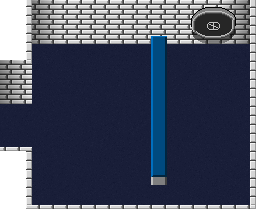
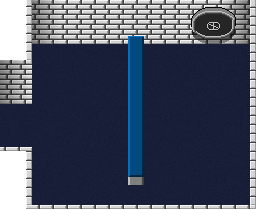
nyt art samt nye hitbox'es

Changed region(s): [[0.5, 0.1722, 0.6562, 0.89]]

diff --git a/Sustainia/src/main/java/com/mycompany/sustainia/Game.java b/Sustainia/src/main/java/com/mycompany/sustainia/Game.java
@@ -31,48 +31,58 @@ public class Game {
             // Front of Town Hall
             {560,451},
             // Front of Non-Sustainable house
-            {208,374},
+            {240,374},
             // Front of Park
-            {208,506},
+            {240,506},
             // Front of Bank
-            {912,374},
+            {896,374},
             // Front of Clothing Factory
-            {912,506},
+            {880,506},
             // Front of police station
-            {336,622},
+            {336,600},
             // Front of Recyclestation
             {560,600},
             // Front of School
-            {784,622}
+            {784,600}
         },
         new HitBox[]{
             // LHitBoxevel Barrier
             new HitBox(0,298,1120,20), new HitBox(0,770,1120,10),
             // TownHall
             new HitBox(448,318,224,110), new HitBox(448,428,96,34), new HitBox(576,428,96,34),
+            // NSH
+            new HitBox(192,374,32,2), new HitBox(192,394,32,2), new HitBox(32,330,160,110),
+            // Park
+            new HitBox(0,528,213,57), new HitBox(0,440,213,66), new HitBox(0,506,192,22),
+            // Bank
+            new HitBox(912,374,16,2), new HitBox(912,394,16,2), new HitBox(928,330,160,110),
+            // Clothing Factory
+            new HitBox(896,526,32,2), new HitBox(896,506,32,2), new HitBox(928,462,160,110),
+            // Police Station
+            new HitBox(320,616,2,22), new HitBox(350,616,2,22), new HitBox(256,638,160,110), new HitBox(417,726,1,22),
             // Recyclestation
             new HitBox(480,614,64,24), new HitBox(576,614,64,24), new HitBox(480,638,160,110),
             // School
-            new HitBox(672,616,2,154), new HitBox(704,638,160,55), new HitBox(704,693,96,55), new HitBox(768,616,2,22), new HitBox(798,616,2,22), new HitBox(879,705,2,42)
+            new HitBox(768,616,2,22), new HitBox(798,616,2,22), new HitBox(704,638,160,55), new HitBox(704,693,96,55)
         },
  
             new HitBox[]{
                 // Town Hall door
                 new HitBox(550,410,20,30),
                 // Non-Sustainable house door
-                new HitBox(170,374,22,22),
+                new HitBox(192,376,32,18),
                 // Park door
-                new HitBox(170,506,22,22),
+                new HitBox(192,506,16,22),
                 // Bank door
-                new HitBox(928,374,22,22),
+                new HitBox(912,376,16,18),
                 // Clothing Factory door
-                new HitBox(928,506,22,22),
+                new HitBox(896,506,22,22),
                 // Police Station door
-                new HitBox(320,638,32,22),
+                new HitBox(322,616,28,22),
                 // Recycle Station door
                 new HitBox(544,616,32,22),
                 // School door
-                new HitBox(770,638,28,22)
+                new HitBox(770,616,28,22)
             }
         , new ArrayList<>());
     }
@@ -95,7 +105,8 @@ public class Game {
         nonsustainableHouse = new Room("NSH", 240, 115,
             new HitBox[]{
                 // Walls
-                new HitBox(0,0,224,44), new HitBox(224,0,32,104), new HitBox(224,148,32,61), new HitBox(-10,44,10,165), new HitBox(0,209,224,10)},
+                new HitBox(0,0,222,45), new HitBox(0,45,2,164), new HitBox(222,146,34,63), new HitBox(222,0,34,105), new HitBox(2,0,220,45)
+            },
             new Door(new HitBox(256,104,10,44), streets)
         , new ArrayList<>());
     }
@@ -104,7 +115,8 @@ public class Game {
         park = new Room("Park", 240, 115,
             new HitBox[]{
                 // Walls
-                new HitBox(0,0,224,44), new HitBox(224,0,32,104), new HitBox(224,148,32,61), new HitBox(-10,44,10,165), new HitBox(0,209,224,10)},
+                new HitBox(0,0,21,209), new HitBox(20,0,215,57)
+            },
             new Door(new HitBox(256,104,10,44), streets)
         , new ArrayList<>());
     }
@@ -113,7 +125,10 @@ public class Game {
         bank = new Room("Bank", 16, 115,
             new HitBox[]{
                 // Walls
-                new HitBox(32,0,224,44), new HitBox(0,0,32,104), new HitBox(0,148,32,61), new HitBox(256,44,10,165), new HitBox(32,209,224,10)},
+                new HitBox(0,0,32,104), new HitBox(32,0,224,44), new HitBox(250,44,6,165), new HitBox(0,147,32,62), new HitBox(32,205,218,4),
+                // Desk
+                new HitBox(128,44,16,141)
+            },
             new Door(new HitBox(-10,104,10,44), streets)
         , new ArrayList<>());
     }
@@ -122,7 +137,12 @@ public class Game {
         clothingFactory = new Room("Colothing Factory", 16, 115,
             new HitBox[]{
                 // Walls
-                new HitBox(32,0,224,44), new HitBox(0,0,32,104), new HitBox(0,148,32,61), new HitBox(256,44,10,165), new HitBox(32,209,224,10)},
+                new HitBox(0,0,32,104), new HitBox(32,0,224,44), new HitBox(0,147,32,62), new HitBox(250,43,6,166), new HitBox(32,205,218,4),
+                // Shelf
+                new HitBox(32,44,96,10),
+                // Tabels
+                new HitBox(80,72,48,32), new HitBox(80,146,48,32), new HitBox(202,44,48,161)
+            },
             new Door(new HitBox(-10,104,10,44), streets)
         , new ArrayList<>());
     }
@@ -131,7 +151,14 @@ public class Game {
         policeStation = new Room("Police Station", 128, 55,
             new HitBox[]{
                 // Walls
-                new HitBox(0,22,96,44), new HitBox(96,0,16,44), new HitBox(144,0,16,44), new HitBox(160,22,96,44), new HitBox(-10,66,10,143), new HitBox(256,66,10,143), new HitBox(0,209,256,10)},
+                new HitBox(0,0,98,67), new HitBox(98,0,14,45), new HitBox(144,0,14,45), new HitBox(158,0,98,67), new HitBox(0,67,2,142), new HitBox(254,67,2,142), new HitBox(2,207,252,2),
+                // Locker
+                new HitBox(188,67,66,10),
+                // Desk
+                new HitBox(26,100,228,17),
+                // Tabels
+                new HitBox(26,134,60,17), new HitBox(110,134,60,17), new HitBox(194,134,60,17), new HitBox(26,168,60,17), new HitBox(110,168,60,17), new HitBox(194,168,60,17)
+                        },
             new Door(new HitBox(112,0,32,44), streets)
         , new ArrayList<>());
     }
@@ -149,7 +176,12 @@ public class Game {
         school = new Room("School", 128, 55,
             new HitBox[]{
                 // Walls
-                new HitBox(0,22,96,44), new HitBox(96,0,16,44), new HitBox(144,0,16,44), new HitBox(160,22,96,44), new HitBox(-10,66,10,143), new HitBox(256,66,10,143), new HitBox(0,209,256,10)},
+                new HitBox(0,0,98,69), new HitBox(98,0,14,45), new HitBox(144,0,14,45), new HitBox(158,0,98,69), new HitBox(0,69,2,140), new HitBox(254,69,2,67), new HitBox(158,136,98,73), new HitBox(2,207,156,2),
+                // Desk and tabels
+                new HitBox(11,83,50,17), new HitBox(2,112,68,17), new HitBox(2,142,68,17), new HitBox(2,172,68,17),
+                // Book shelf
+                new HitBox(174,69,64,10), new HitBox(238,69,16,67)
+            },
             new Door(new HitBox(112,0,32,44), streets)
         , new ArrayList<>());
     }
